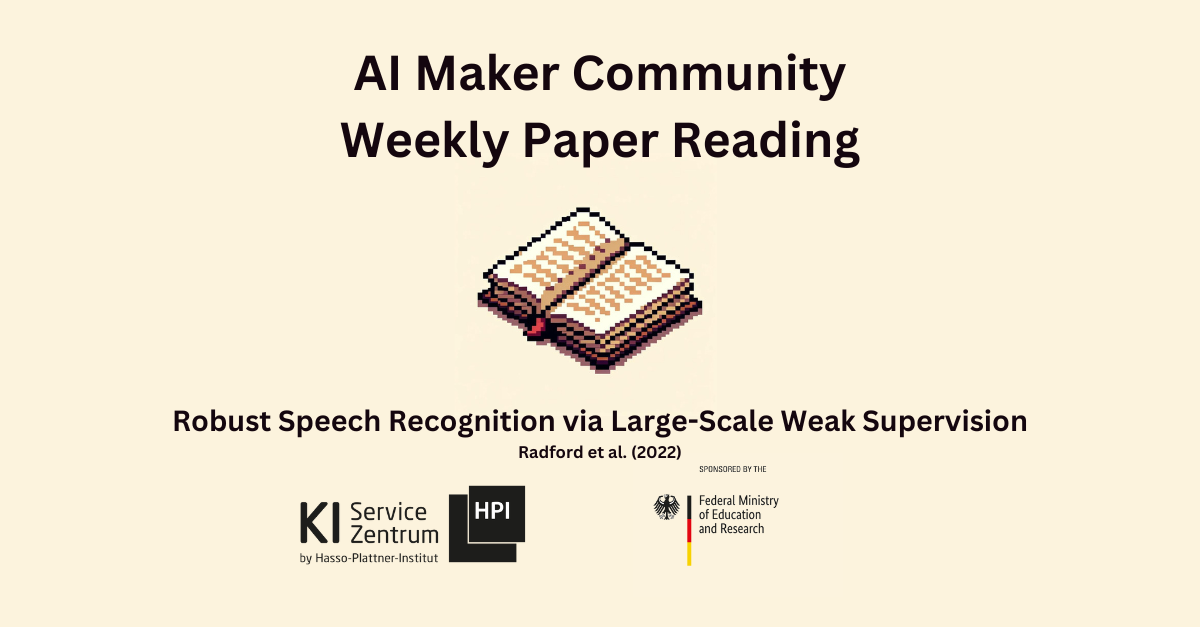
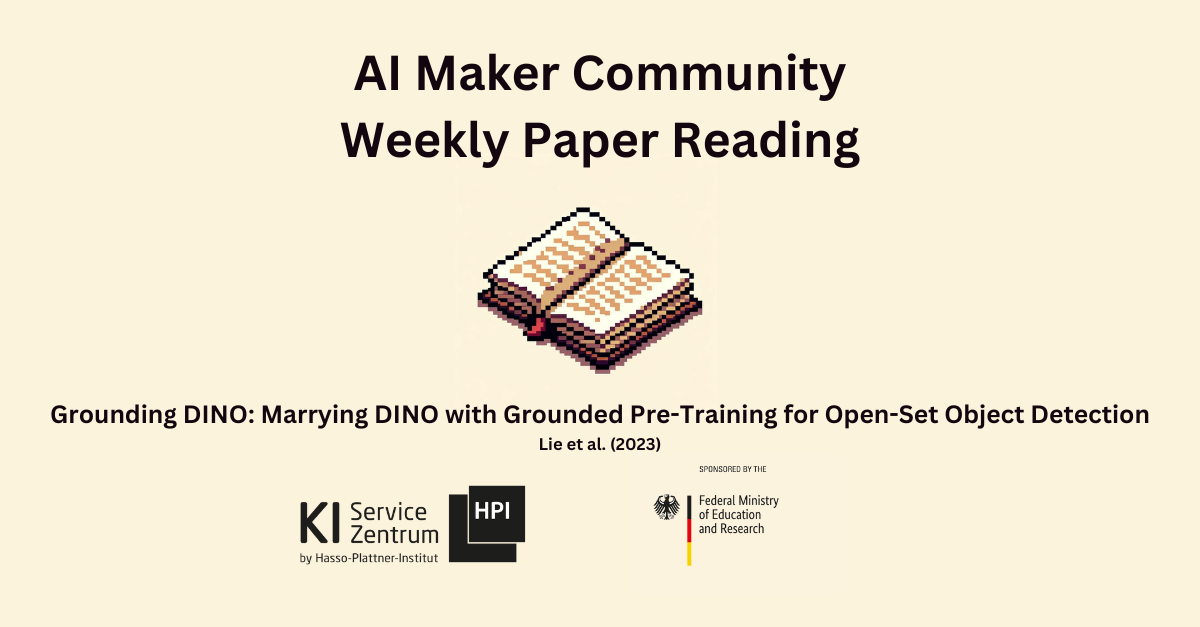
changes

Changed region(s): [[0.0308, 0.6364, 0.9558, 0.7273]]

diff --git a/content/post/grounding_dino_paper_reading.md b/content/post/grounding_dino_paper_reading.md
@@ -10,6 +10,8 @@ expiryDate: 2024-07-04
 Join us for an practical exploration of [Grounding DINO: Marrying DINO with Grounded Pre-Training for Open-Set Object Detection
 ](https://arxiv.org/pdf/2303.05499), a state-of-the-art method for vision-language modeling and object detection by Lie et al (2023).
 
+![](/img_grounding_dino_fig.png)
+
 
 ## Details
 - We recommend joining the AI Maker Community Slack workspace before the workshop to engage in discussions with other participants. You can join us at [https://join.aimaker.community/](https://join.aimaker.community/).
